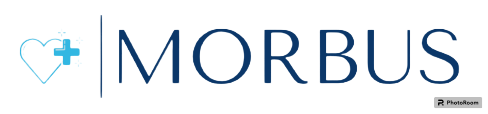
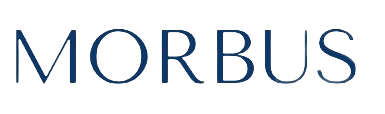
사진 변경 및 사이드바 X 위치 수정

Changed region(s): [[0.0312, 0.1316, 0.9662, 0.8684], [0.8727, 0.8421, 0.9974, 0.9474]]

diff --git a/Server/src/main/resources/templates/MedicineInfo.html b/Server/src/main/resources/templates/MedicineInfo.html
@@ -199,7 +199,7 @@
 <header>
     <div class="HTCon"></div>
     <div class="HCon"></div>
-    <div id="Hmain"><a href="/morbus.html"><img src="사진\MORBUS.png"></a></div>
+    <div id="Hmain"><a href="/morbus.html"><img src="사진\MORBUS.png" ></a></div>
     <div class="HCon"></div>
 </header>
 <div class="side-bar">
@@ -215,7 +215,6 @@
         </ul>
     </nav>
 </div>
-<!--사진추가-->
 <div class="square">
     <input type="text" class="chat-input" id="MedicineName" placeholder="약 이름 또는 성분을 검색하세요.">
     <button type="submit" value="Send" onclick="getValueText();">검색</button>

diff --git a/Server/src/main/resources/static/css/mainPageStyle.css b/Server/src/main/resources/static/css/mainPageStyle.css
@@ -202,6 +202,15 @@ footer .FCon {
 .side-bar>.icon>div:last-child{
     display:none;
 }
+.side-bar>.menu {
+    display: flex;
+    flex-direction: column; /* 수직 정렬 */
+}
+.side-bar>.menu img {
+    align-self: flex-end; /* 이미지 오른쪽 정렬 */
+    margin-right: 20px;
+    margin-top: 10px;
+}
 .side-bar>.menu ul {
     border-top: 4px solid black; /* 각 항목 아래에 선 추가 */
 }
